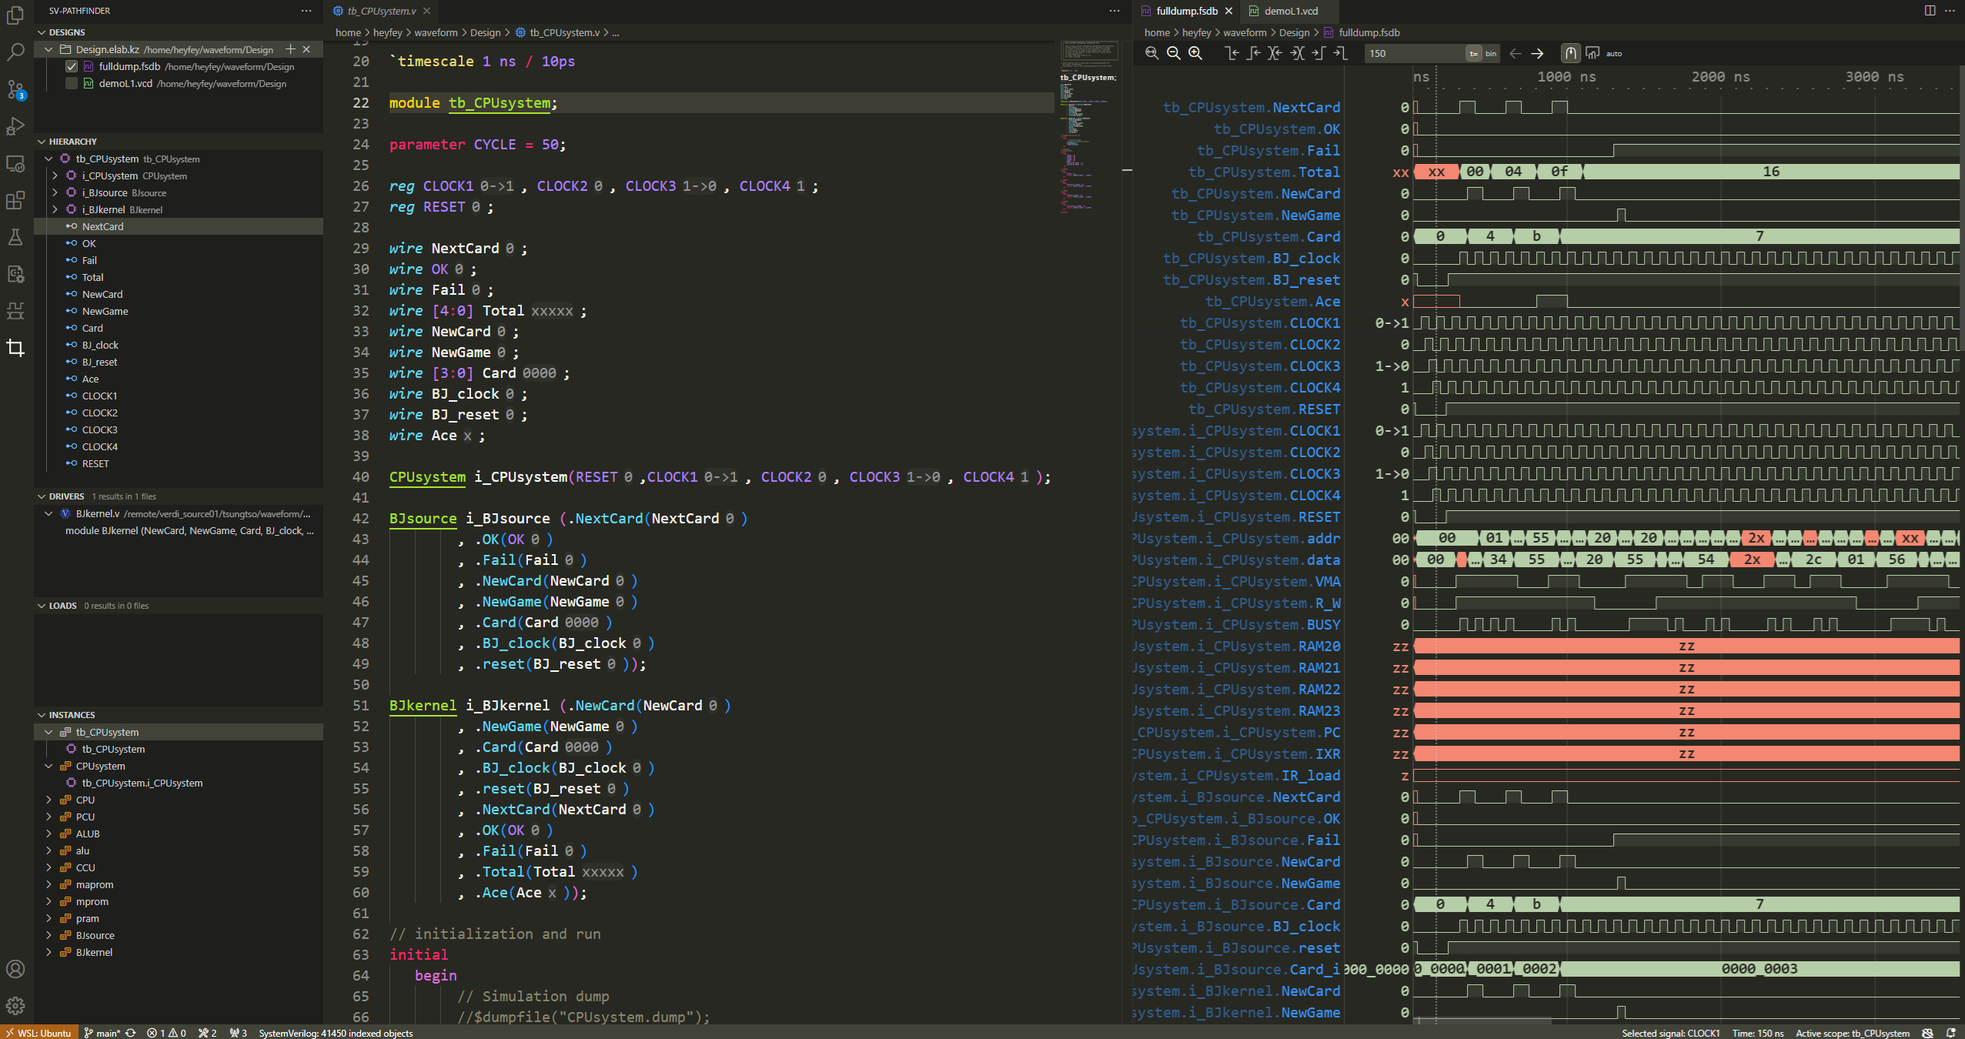
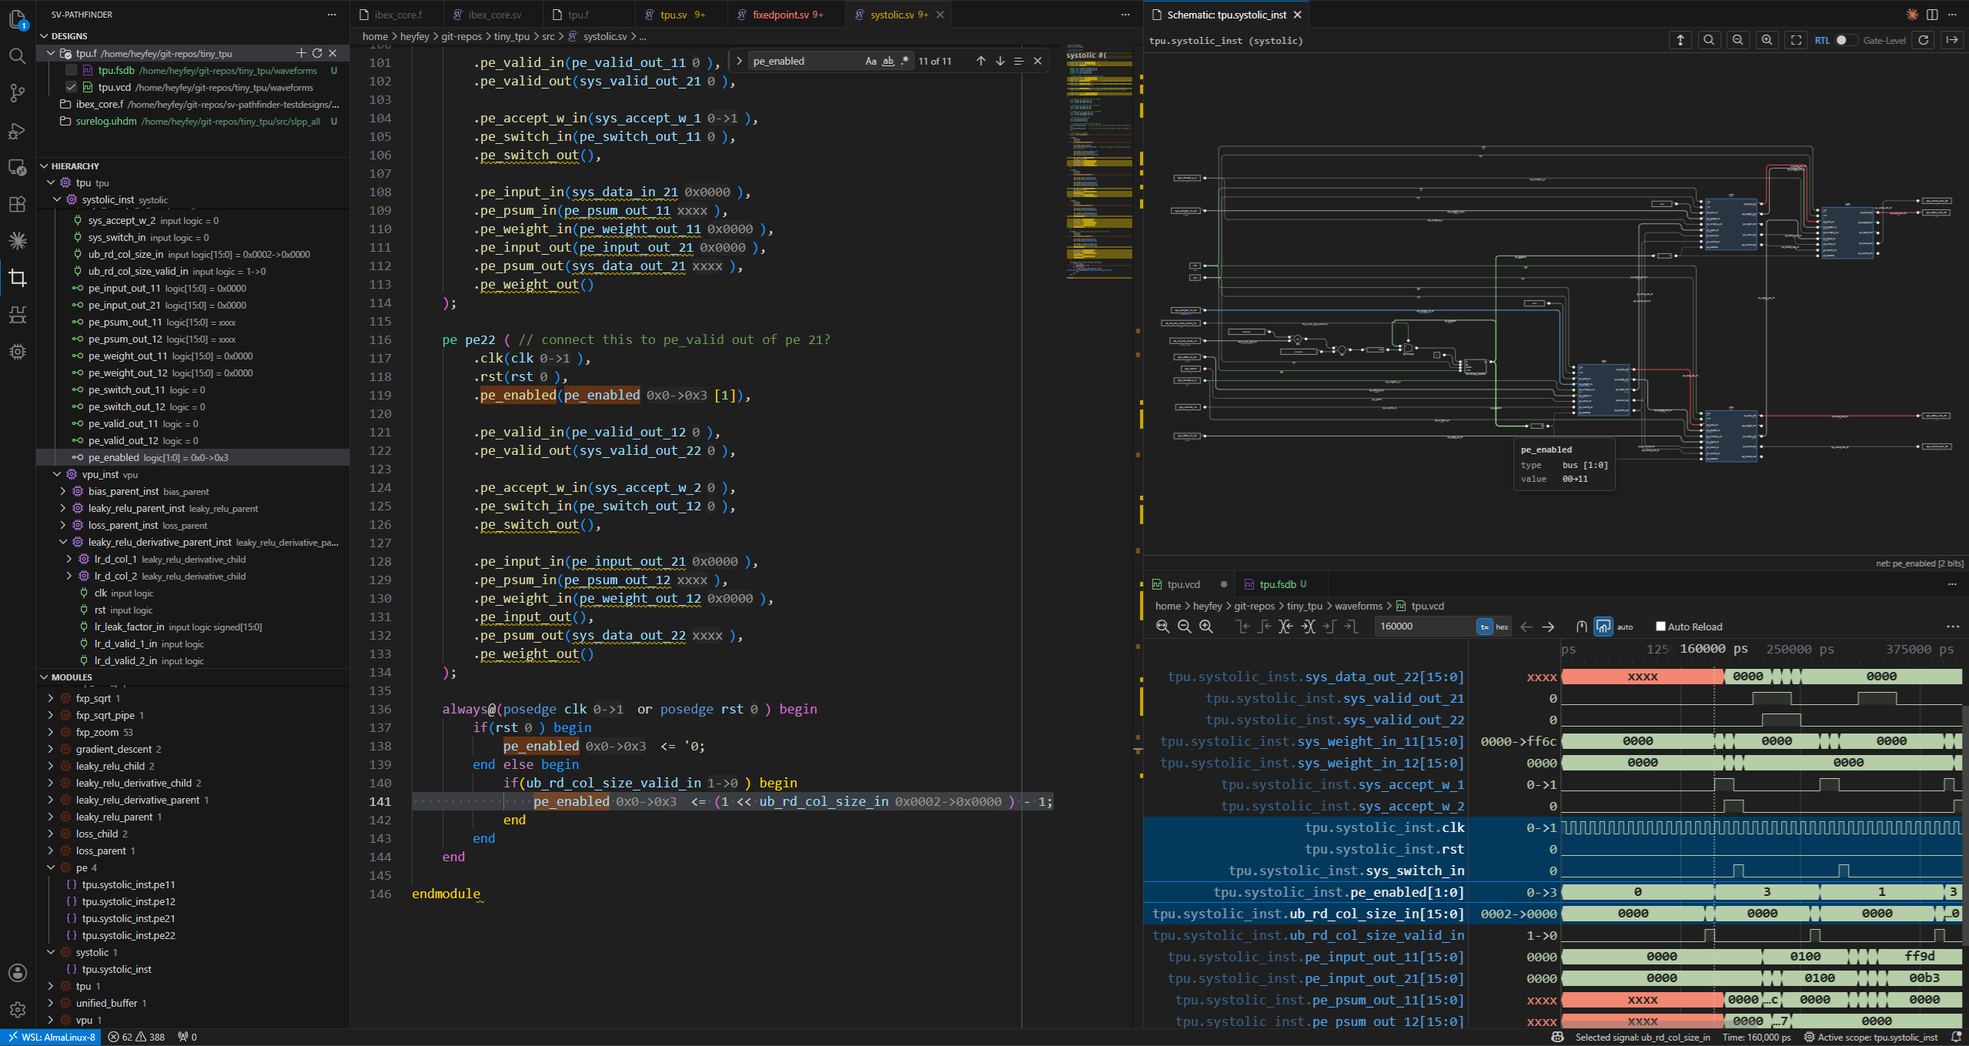
docs: split README into GETTING_STARTED + SCHEMATIC, refresh assets
README slims down to a feature overview with three demo GIFs; setup,
backends, and settings move to GETTING_STARTED.md, and the schematic
setup/backend-tiers/filelist guidance to SCHEMATIC.md. Replace the old
per-feature GIFs with navigation/schematic/waveform recordings.

Also drop the stale CHANGELOG mention of the removed schematicOverview
setting.

diff --git a/README.md b/README.md
@@ -1,159 +1,62 @@
 # sv-pathfinder
 
-VS Code extension for SystemVerilog design navigation & RTL tracing - [Download](https://marketplace.visualstudio.com/items?itemName=heyfey.sv-pathfinder)
+VS Code extension for SystemVerilog design navigation, RTL tracing, schematic viewer, and waveform integration with the [Vaporview](https://github.com/Lramseyer/vaporview) waveform viewer.
 
-sv-pathfinder helps you explore elaborated SystemVerilog designs at ease, and seamlessly integrates with the waveform viewer [VaporView](https://github.com/Lramseyer/vaporview) for post-simulation debug.
+[VS Code Marketplace](https://marketplace.visualstudio.com/items?itemName=heyfey.sv-pathfinder) | Open VSX | [GitHub](https://github.com/heyfey/sv-pathfinder)
 
-> Limitations: only supports Linux64 for now. Tested on Ubuntu 22.04, AlmaLinux 8
+![](readme_assets/overview.png)
 
-![](https://github.com/heyfey/sv-pathfinder/blob/main/readme_assets/overview.gif?raw=true)
-
-## Getting Started
-
-sv-pathfinder currently supports `.f` files and [UHDM](https://github.com/chipsalliance/UHDM) databases (generated by [Surelog](https://github.com/chipsalliance/Surelog)) for design navigation.
-
-### `.f`
-
-Install [Surelog](https://github.com/chipsalliance/Surelog), or specify surelog path in setting: `"sv-pathfinder.surelogPath"`
-
-Then open the `.f` in sv-pathfinder.
-
-### `.uhdm`
-
-Generating UHDM using Surelog:
-```bash
-# ./slpp_all/surelog.uhdm will be generated
-surelog dut.v tb.sv -elabuhdm -parse -sverilog -d uhdm
-```
-
-Then you can open the `.uhdm` in sv-pathfinder.
-
-> Compatibility Note: This extension is built with UHDM v1.84. It's recommended to use Surelog v1.84 to ensure compatibility. See [Build Surelog](https://github.com/heyfey/sv-pathfinder/blob/main/BUILD_SURELOG.md)
+> **[Getting Started](GETTING_STARTED.md)** walks through prerequisites,
+> setup, and opening your first design.
 
 ## Features
 
-### Browse design hierarchy
+### Navigate a design
 
-- Jump to module definitions/instantiations, signal declarations, generate blocks, and more.
+- Browse the elaborated design hierarchy
+- Jump to source: module definitions/instantiations, signal
+declarations, generate blocks, and more
+- Go back/forward
+- Find instance
+- Select an instance from the Modules view
+- Waveform value & add to waveform ([waveform integration](#waveform-integration))
 
-![](https://github.com/heyfey/sv-pathfinder/blob/main/readme_assets/browse.gif?raw=true)
+> **Setup & details → [Open a design](GETTING_STARTED.md#open-a-design)**.
 
-### Go back/foward
+![](readme_assets/navigation.gif)
 
-![](https://github.com/heyfey/sv-pathfinder/blob/main/readme_assets/goback.gif?raw=true)
+### Schematic viewer
 
-### Select instance
+- Render the RTL (or gate-level) structure of any scope
+- Right-click a scope → **Show Schematic**
+- Step into child scope / Step out to parent scope
+- Jump to source editor for cell/wire
+- Find in schematic viewer
+- Waveform value & add to waveform ([waveform integration](#waveform-integration))
 
-![](https://github.com/heyfey/sv-pathfinder/blob/main/readme_assets/instances.gif?raw=true)
+> **Setup & details → [SCHEMATIC.md](SCHEMATIC.md)**.
 
-### Find instance in design
-
-Click the search icon on the Hierarchy / Modules view title (or run **sv-pathfinder: Find Instance in
-Design** from the command palette) to fuzzy-find any instance by its hierarchy path and reveal it in
-the Hierarchy view. The query subsequence-matches the full path; results are capped (so the UI never
-floods), and the tree stays lazily loaded — only the chosen instance is expanded. Works with the
-slang and UHDM backends (UHDM matches and caps natively in the addon).
-
-### Interactive schematic (preview)
-
-Right-click a scope in the Hierarchy view (or in the editor) and pick **Show Schematic**
-to see the RTL structure of that instance — ports, sub-instances (as boxes), logic, and
-wires — rendered with [digitaljs](https://github.com/tilk/digitaljs).
-
-- Click a cell or instance to jump to its RTL source; click a wire to jump to the signal
-  declaration. Boxes navigate to the module declaration.
-- Hovering any cell/instance/port/wire highlights it and names it in the status bar.
-- The schematic is elaborated with the instance's actual parameter values.
-- **Elaboration mode** (`sv-pathfinder.schematicElaborationMode`): by default (**full**) the scope
-  you open is elaborated once, and rendering it — plus step-into, expand, and stepping back up —
-  comes from that single elaboration with no re-elaboration; only navigating *above* what you've
-  opened elaborates again. (Rooting at the opened scope, not the design's absolute top, avoids
-  elaborating a non-synthesizable testbench above the DUT.) Switch to **shallow** for very large
-  designs: it elaborates only the selected scope + one level (children as boxes) and re-elaborates
-  the next level on demand as you step in or expand.
-- Navigate the hierarchy with the **↰ go-to-parent** button; child instances are filled
-  with an accent color so they're easy to spot.
-- Pan by dragging the canvas or scrolling the wheel; zoom with **Ctrl+scroll** (or the
-  toolbar buttons). Scrollbars (or a minimap, configurable) show where you are.
-- RTL view is the default; the `RTL`/`GLS` button toggles a gate-level view.
-- With a waveform open in VaporView, moving the marker annotates schematic wires with
-  signal values at the cursor time (green = 1, red = 0, gray = x/undriven; `z` shown as `x`).
-- It is a read-only viewer (no editing/simulation of the schematic).
-
-### Set up Yosys (OSS CAD Suite)
-
-The schematic needs **Yosys + the `slang` SystemVerilog frontend**, which both ship in
-[OSS CAD Suite](https://github.com/YosysHQ/oss-cad-suite-build):
-
-1. Download the suite for your platform from the
-   [releases](https://github.com/YosysHQ/oss-cad-suite-build/releases) (Linux x64 is the tested
-   platform).
-2. Extract it, e.g. `tar xzf oss-cad-suite-linux-x64-YYYYMMDD.tgz`.
-3. Point the setting at the extracted **`oss-cad-suite`** folder (the one containing `bin/yosys`):
-   ```jsonc
-   // settings.json
-   "sv-pathfinder.ossCadSuitePath": "/path/to/oss-cad-suite"
-   ```
-4. Open a schematic to verify; the RTL / Gate-Level toggle works once it's set.
-
-**Backend tiers (read honestly):**
-- **OSS CAD Suite / any slang-capable Yosys** — full SystemVerilog via `read_slang`. Recommended and
-  supported.
-- **`yowasp-yosys`** (`pip install yowasp-yosys`) — a zero-install WASM **fallback with major
-  SystemVerilog gaps**; many designs render incompletely or fail to elaborate. The schematic shows a
-  "limited engine" badge and warns once when it falls back to this. Such failures are a limitation of
-  the fallback toolchain, not your design or this extension.
-- A plain `yosys` on PATH **without** the slang frontend is **not used** (Verilog-only).
-
-If no usable Yosys is found, the schematic error offers a button to open the
-`sv-pathfinder.ossCadSuitePath` setting.
-
-**Curated / partial filelists.** The schematic elaborates the `.f` with Yosys, which (unlike the
-slang language server) needs a self-contained filelist. The filelist's own directory and each source
-file's directory are searched automatically (so a `.f` that omits sibling modules — like ibex's
-`ibex_core.f` — still resolves them). If `\`include` headers live outside the source tree (e.g. ibex's
-vendored `prim_assert.sv` / `dv_fcov_macros.svh`), add their directories to
-`"sv-pathfinder.schematicIncludeDirs"`. A schematic error mentioning a missing file or unknown module
-points here.
-
-The flip side: Yosys searches those directories, but the navigation backend (the language server)
-sees only the files the `.f` lists. So the schematic can show a sub-instance the hierarchy tree
-doesn't have — e.g. ibex's `wb_stage_i`, whose `ibex_wb_stage.sv` is omitted from `ibex_core.f`.
-**Step into** on such an instance can't open its scope (it isn't in the tree); it explains why and
-offers **Go to source** instead. Add the missing source to the `.f` to navigate it fully.
-
-## Waveform Integration
-
-sv-pathfinder is seamlessly integrated with VaporView – [Download](https://marketplace.visualstudio.com/items?itemName=lramseyer.vaporview)
-
-### Signal value annotation
-
-![](https://github.com/heyfey/sv-pathfinder/blob/main/readme_assets/value_annotation.gif?raw=true)
+![](readme_assets/schematic.gif)
 
 
-### Adding signals to the waveform viewer
+### Waveform integration
 
-![](https://github.com/heyfey/sv-pathfinder/blob/main/readme_assets/add_to_waveform.gif?raw=true)
+With the [Vaporview](https://marketplace.visualstudio.com/items?itemName=lramseyer.vaporview) extension:
 
-## Settings
+- **Inline signal values** — show signal values in
+  the **source editor** and **schematic view**, for the given waveform marker time
+- **Add signals to the waveform** — from hierarchy view, source editor, or schematic → **Show in Waveform** / **Add All
+  Variables in Scope to Waveform**
 
-- `"sv-pathfinder.sourcePathFrom": string`
-- `"sv-pathfinder.sourcePathTo": string`
-    - Rewrite source paths when jumping to source: a prefix matching `sourcePathFrom` is swapped for `sourcePathTo`. Useful when the design database was generated on a different machine/path. Only takes effect when both are set.
-- `"sv-pathfinder.surelogPath": string`, Path to the Surelog executable. If empty, 'surelog' will be resolved from your system PATH.
-- `"sv-pathfinder.showModulesView": boolean`, Show the Modules view (modules in the design; expand one to see its instances). Need to reload window to take effect.
-    - Default: `true`
-- `"sv-pathfinder.ossCadSuitePath": string`, Path to the OSS CAD Suite installation directory (the folder containing `bin/yosys`), used by the schematic feature. If empty, `yosys` is resolved from PATH, then `yowasp-yosys`.
-- `"sv-pathfinder.schematicAccentColor": string`, Accent color for the schematic (child-instance fills and hover highlights). Any CSS color; empty uses a theme-aware default.
-- `"sv-pathfinder.schematicOverview": "scrollbars" | "minimap"`, Overview affordance for the main schematic. Popups always use scrollbars.
-    - Default: `scrollbars`
-- `"sv-pathfinder.schematicElaborationMode": "full" | "shallow"`, How much of the design the schematic elaborates. `full` (default) elaborates the scope you open once and renders it and every descendant (step-into/expand, and stepping back up) from that single elaboration with no re-elaboration — only navigating above what you've opened elaborates again (rooting at the opened scope avoids elaborating a testbench above the DUT); `shallow` elaborates only the selected scope + its direct children (as boxes) and re-elaborates the next level on demand — use it when a design is too large to elaborate whole. Applies on the next render.
-    - Default: `full`
+![](readme_assets/waveform.gif)
 
-## Requirements
+## Documentation
 
-This extension requires VS Code 1.93.0 or later
+- **[Getting Started](GETTING_STARTED.md)** — prerequisites, backends (`.f` / `.uhdm`), opening a
+  design, and all settings.
+- **[SCHEMATIC.md](SCHEMATIC.md)** — schematic setup (OSS CAD Suite), backend tiers, elaboration
+  modes, curated/partial filelists, and all `schematic*` settings.
 
 ## Acknowledgements
 
-Many thanks to [@lramseyer](https://github.com/Lramseyer) for all of his great work and inspiration.
+Many thanks to [@lramseyer](https://github.com/Lramseyer) for Vaporview and the inspiration.

diff --git a/SCHEMATIC.md b/SCHEMATIC.md
@@ -1,0 +1,73 @@
+# Schematic Viewer
+
+The schematic renders the RTL (or gate-level) structure of any scope — ports, sub-instances, logic, and wires — elaborated with Yosys
+
+![](readme_assets/schematic.png)
+
+## Setup (OSS CAD Suite)
+
+The schematic needs **Yosys + the `slang` SystemVerilog frontend**, both of which ship in
+[OSS CAD Suite](https://github.com/YosysHQ/oss-cad-suite-build):
+
+1. Download the suite for your platform from the
+   [releases](https://github.com/YosysHQ/oss-cad-suite-build/releases).
+2. Extract it (`tar xzf oss-cad-suite-linux-x64-YYYYMMDD.tgz`).
+3. Point the setting at the extracted **`oss-cad-suite`** folder (the one containing `bin/yosys`):
+   ```jsonc
+   // settings.json
+   "sv-pathfinder.ossCadSuitePath": "/path/to/oss-cad-suite"
+   ```
+4. Right-click a scope in the Hierarchy view → **Show Schematic** to verify.
+
+> **macOS:** OSS CAD Suite's binaries aren't Apple-notarized, so Gatekeeper blocks them on first run
+> (*"Apple could not verify 'realpath' is free of malware…"*). Clear the quarantine flag on the whole
+> folder once, then reload the window:
+> ```bash
+> xattr -dr com.apple.quarantine "/path/to/oss-cad-suite"
+> ```
+> Use the same folder as `sv-pathfinder.ossCadSuitePath`. Don't approve binaries one-by-one in System
+> Settings — yosys pulls in several (`realpath`, `abc`, the `slang` plugin, …).
+
+## Backend tiers
+
+- **OSS CAD Suite / any slang-capable Yosys** — full SystemVerilog support via `read_slang`. (Recommended)
+- **`yowasp-yosys`** (`pip install yowasp-yosys`) — a zero-install WASM **fallback with major
+  SystemVerilog gaps**; many designs render incompletely or fail to elaborate. The schematic shows a
+  "limited engine" badge and warns once when it falls back. These failures are a limitation of the
+  fallback toolchain, not your design or this extension.
+- A plain `yosys` on PATH **without** the slang frontend is **not used** (Verilog-only).
+
+## Elaboration modes (`schematicElaborationMode`)
+
+- **`shallow`** *(default)* — elaborates only the selected scope + one level (children as boxes) and
+  re-elaborates the next level on demand as you step in or expand. Cheapest to start on large designs.
+- **`full`** — the scope you open is elaborated **once**; rendering it, plus step-into, expand, and
+  stepping back up, all come from that single elaboration with no re-elaboration. Only navigating
+  *above* what you've opened elaborates again. (Rooting at the opened scope, not the design's absolute
+  top, avoids elaborating a non-synthesizable testbench above the DUT.) Best for small/medium designs.
+
+## Curated / partial filelists
+
+Unlike the language server, Yosys needs a **self-contained** filelist. The filelist's own directory
+and each source file's directory are searched automatically, so a `.f` that omits sibling modules
+(like [ibex](https://github.com/lowrisc/ibex)'s `ibex_core.f`) still resolves them.
+
+- If `` `include`` headers live **outside** the source tree (e.g. ibex's vendored `prim_assert.sv` /
+  `dv_fcov_macros.svh`), add their directories to **`sv-pathfinder.schematicIncludeDirs`**. A
+  schematic error naming a missing file or unknown module points here.
+- **Flip side:** Yosys searches those directories, but the navigation backend sees only the files the
+  `.f` lists — so the schematic can show a sub-instance the hierarchy tree doesn't have (e.g. ibex's
+  `wb_stage_i`, whose `ibex_wb_stage.sv` is omitted from `ibex_core.f`). **Step into** on such an
+  instance can't open its scope; it explains why and offers **Go to source** instead. Add the missing
+  source to the `.f` to navigate it fully.
+
+## Schematic settings
+
+| Setting | Description |
+|---|---|
+| `sv-pathfinder.ossCadSuitePath` | OSS CAD Suite dir (the `bin/yosys` parent). If empty, `yosys` then `yowasp-yosys` are resolved from PATH. |
+| `sv-pathfinder.schematicElaborationMode` | `shallow` (default) or `full` — see above. |
+| `sv-pathfinder.schematicIncludeDirs` | Extra `` `include`` search dirs for Yosys elaboration. |
+| `sv-pathfinder.schematicAccentColor` | Accent color for child-instance fills / hover highlights. Any CSS color; empty = theme-aware default. |
+| `sv-pathfinder.schematicShowDanglingNets` | Surface declared-but-unconnected nets. Default off. |
+| `sv-pathfinder.schematicSpacing` | Layout density: `compact` / `comfortable` (default) / `spacious`. |

diff --git a/GETTING_STARTED.md b/GETTING_STARTED.md
@@ -1,0 +1,74 @@
+# Getting started
+
+- [Getting started](#getting-started)
+  - [Prerequisites](#prerequisites)
+  - [Open a design](#open-a-design)
+    - [Generating a UHDM database with Surelog](#generating-a-uhdm-database-with-surelog)
+  - [Schematic viewer](#schematic-viewer)
+  - [Waveform integration](#waveform-integration)
+  - [Settings](#settings)
+
+## Prerequisites
+
+| To use… | You need | One-time setup |
+|---|---|---|
+| The extension | VS Code **1.93.0+** | Install from the [Marketplace](https://marketplace.visualstudio.com/items?itemName=heyfey.sv-pathfinder) |
+| **Design navigation** (required) | **One design input** — a **`.f`** filelist (backend: **slang-server** *(default)* or **Surelog**) *or* a **`.uhdm`** database (native reader, **Linux x64**; no backend needed) | [Open a design](#open-a-design) |
+| **Schematic viewer** | [OSS CAD Suite](https://github.com/YosysHQ/oss-cad-suite-build) (Yosys + slang) | [Schematic viewer](#schematic-viewer) |
+| **Waveform** value annotation & "Show in Waveform" | The [Vaporview](https://marketplace.visualstudio.com/items?itemName=lramseyer.vaporview) extension | [Waveform integration](#waveform-integration) |
+
+> **Platform:** primarily developed and tested on **Linux x64** (Ubuntu 22.04, AlmaLinux 8). Only the
+> `.uhdm` database reader strictly requires Linux x64; the slang-server backend, schematic, and
+> waveform features are not Linux-specific.
+
+## Open a design
+
+sv-pathfinder navigates two kinds of design database:
+
+- **`.f` filelist** — parsed and elaborated on the fly. Pick the backend via `sv-pathfinder.compiler`:
+  - **`slang-server`** *(default)* — based on the [slang](https://github.com/MikePopoloski/slang)
+    library. **Install the
+    [slang-server VS Code extension](https://marketplace.visualstudio.com/items?itemName=Hudson-River-Trading.vscode-slang)**
+    and configure it.
+  - **`Surelog`** — elaborates the `.f` with [Surelog](https://github.com/chipsalliance/Surelog)
+    (install it, or set `sv-pathfinder.surelogPath`).
+- **`.uhdm` [UHDM](https://github.com/chipsalliance/UHDM) database** — a pre-elaborated database **generated by [Surelog](https://github.com/chipsalliance/Surelog)**
+  ([how](#generating-a-uhdm-database-with-surelog)). Opened directly by the native UHDM reader, which
+  requires **Linux x64**; the `sv-pathfinder.compiler` setting does not apply.
+
+Then open the **sv-pathfinder** activity-bar view → **Open Design** (or run **sv-pathfinder: Open
+Design**) and pick a **`.f`** or **`.uhdm`**.
+
+### Generating a UHDM database with Surelog
+
+```bash
+# produces ./slpp_all/surelog.uhdm
+surelog dut.v tb.sv -elabuhdm -parse -sverilog -d uhdm
+```
+
+Built against UHDM v1.84 — use Surelog v1.84 for compatibility. See
+[BUILD_SURELOG.md](BUILD_SURELOG.md).
+
+## Schematic viewer
+
+See [SCHEMATIC.md](SCHEMATIC.md).
+
+## Waveform integration
+
+Simply install the [Vaporview](https://marketplace.visualstudio.com/items?itemName=lramseyer.vaporview)
+waveform viewer. With a waveform open, sv-pathfinder then:
+
+- annotates both the **source editor** and **schematic wires** with signal values at the marker time, and
+- lets you **add signals into the waveform** (right-click a signal/scope → **Show in Waveform**).
+
+## Settings
+
+| Setting | Description |
+|---|---|
+| `sv-pathfinder.compiler` | `.f` backend: `slang-server` (default) or `Surelog`. |
+| `sv-pathfinder.surelogPath` | Path to the Surelog executable (Surelog backend). |
+| `sv-pathfinder.showModulesView` | Show the Modules view (reload window to apply). Default `true`. |
+| `sv-pathfinder.valueAnnotationFormat` | Inline waveform-value format: hex / dec / bin. |
+| `sv-pathfinder.sourcePathFrom` / `sourcePathTo` | Remap source paths across machines (both must be set). |
+| `sv-pathfinder.ossCadSuitePath` | OSS CAD Suite dir (the `bin/yosys` parent) for the schematic. |
+| `sv-pathfinder.schematic*` | Schematic appearance & elaboration — see [SCHEMATIC.md](SCHEMATIC.md). |

diff --git a/CHANGELOG.md b/CHANGELOG.md
@@ -16,14 +16,13 @@ Check [Keep a Changelog](http://keepachangelog.com/) for recommendations on how 
   - Navigation: a go-to-parent button to move up the hierarchy; child instances rendered
     as labeled, accent-filled boxes that navigate to the child's module declaration.
   - Controls: Ctrl+scroll to zoom around the cursor, drag/wheel to pan, fit/zoom toolbar,
-    and a navigation overview — scrollbars by default (or a minimap, configurable) on the
-    main schematic, and overlay scrollbars on subcircuit popup windows.
+    and a navigation overview — scrollbars on the main schematic, and overlay scrollbars
+    on subcircuit popup windows.
   - Visuals: configurable single accent color, theme-aware wire value colors, and a
     hover highlight that names the cell/net/port in the status bar.
   - Read-only: digitaljs's editor/simulator affordances (wire delete/monitor tools,
     input toggling, memory/FSM content editors) are disabled.
 - Setting `sv-pathfinder.ossCadSuitePath` for locating the Yosys/yosys-slang toolchain.
 - Setting `sv-pathfinder.schematicAccentColor` for the schematic accent color.
-- Setting `sv-pathfinder.schematicOverview` (`minimap` | `scrollbars`) for the main schematic.
 
 - Initial release
